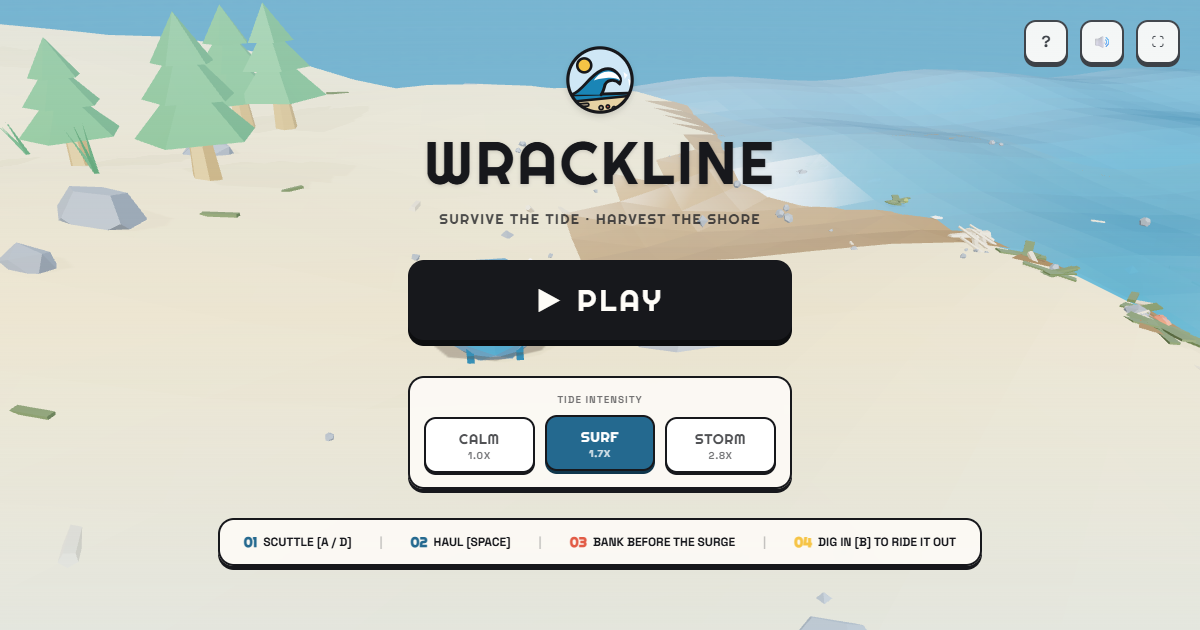
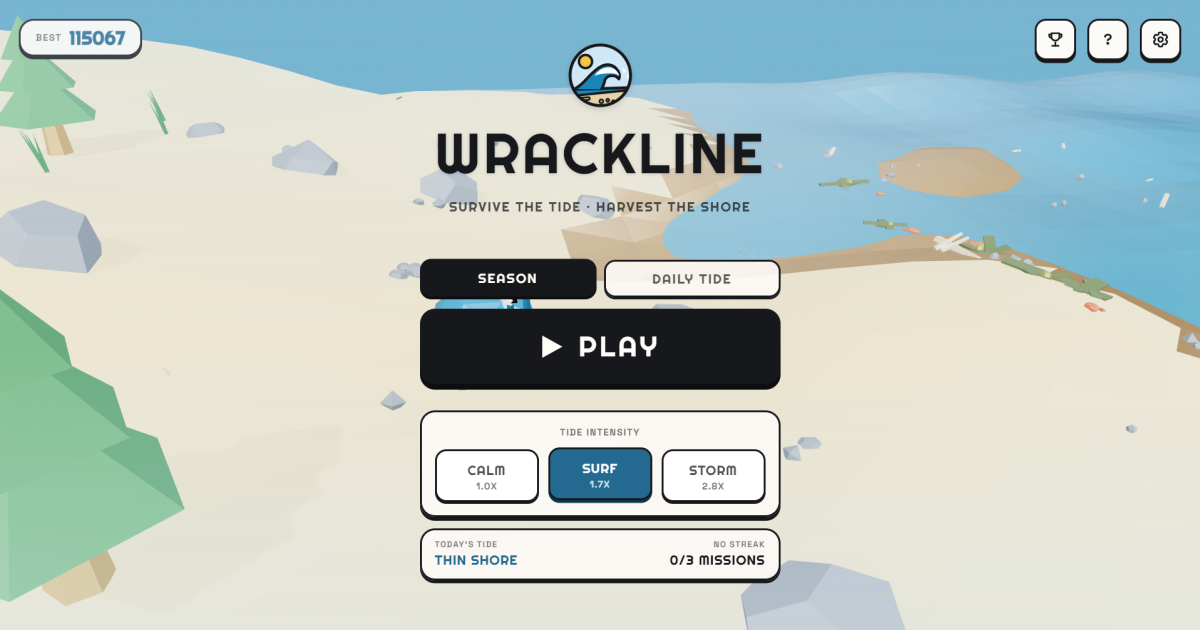
docs: new title screenshot, team set to Solo Canvas
Re-shoot the title screen from the live build so the social card shows the
cog settings button instead of the old sun glyph, and credit the entry to
Solo Canvas with the leader's email and Telegram.

diff --git a/README.md b/README.md
@@ -26,15 +26,15 @@
   </p>
 </div>
 
-![WRACKLINE title screen](public/og.png)
+![WRACKLINE title screen: the low-poly shore at low tide, the WRACKLINE wordmark, a PLAY button, the tide-intensity selector (CALM 1.0X / SURF 1.7X / STORM 2.8X) and today's tide card, with trophy, guide and settings buttons top-right](public/og.png)
 
 ## Submission
 
 | # | Item | Answer |
 |---|---|---|
 | 1 | **Game title** | **WRACKLINE** — *Survive the tide. Harvest the shore.* |
-| 2 | **Team name** | Sithu Nyein (solo developer) |
-| 3 | **Main contact** | Sithu Nyein — [sithunyein.mailto@gmail.com](mailto:sithunyein.mailto@gmail.com) |
+| 2 | **Team name** | **Solo Canvas** — a one-person team |
+| 3 | **Main contact** | Team leader **Sithu Nyein** — [sithunyein.mailto@gmail.com](mailto:sithunyein.mailto@gmail.com) · Telegram [@thesithunyein](https://t.me/thesithunyein) |
 | 4 | **Short description** | A seaside arcade game about greed and timing. You are a hermit crab working a storm beach: hold your nerve through the low tide, pull the wrack into your shell, and get off the sand before the breaker lands on you. Thirteen waves, four shell colours, a daily shore. |
 | 16 | **Repository access** | Public: https://github.com/thesithunyein/wrackline. Submission tag **`v1.0.0`** (`git rev-parse v1.0.0` for the exact commit). |
 | 17 | **Build version** | **1.0.0** — tag `v1.0.0`, deployed to production at https://wrackline.vercel.app on 2026-10-31. |
@@ -574,7 +574,8 @@ This project follows the [Contributor Covenant](CODE_OF_CONDUCT.md), version 2.1
 
 ## Credits
 
-Built by **Sithu Nyein** ([sithunyein.mailto@gmail.com](mailto:sithunyein.mailto@gmail.com)).
+Built by **Solo Canvas** — Sithu Nyein ([sithunyein.mailto@gmail.com](mailto:sithunyein.mailto@gmail.com),
+Telegram [@thesithunyein](https://t.me/thesithunyein)).
 
 **Art and audio:** entirely original and entirely procedural. The terrain, ocean, breaker, props,
 creature, shell portraits, logo, UI icons and share card are drawn in code with Three.js and Canvas;
